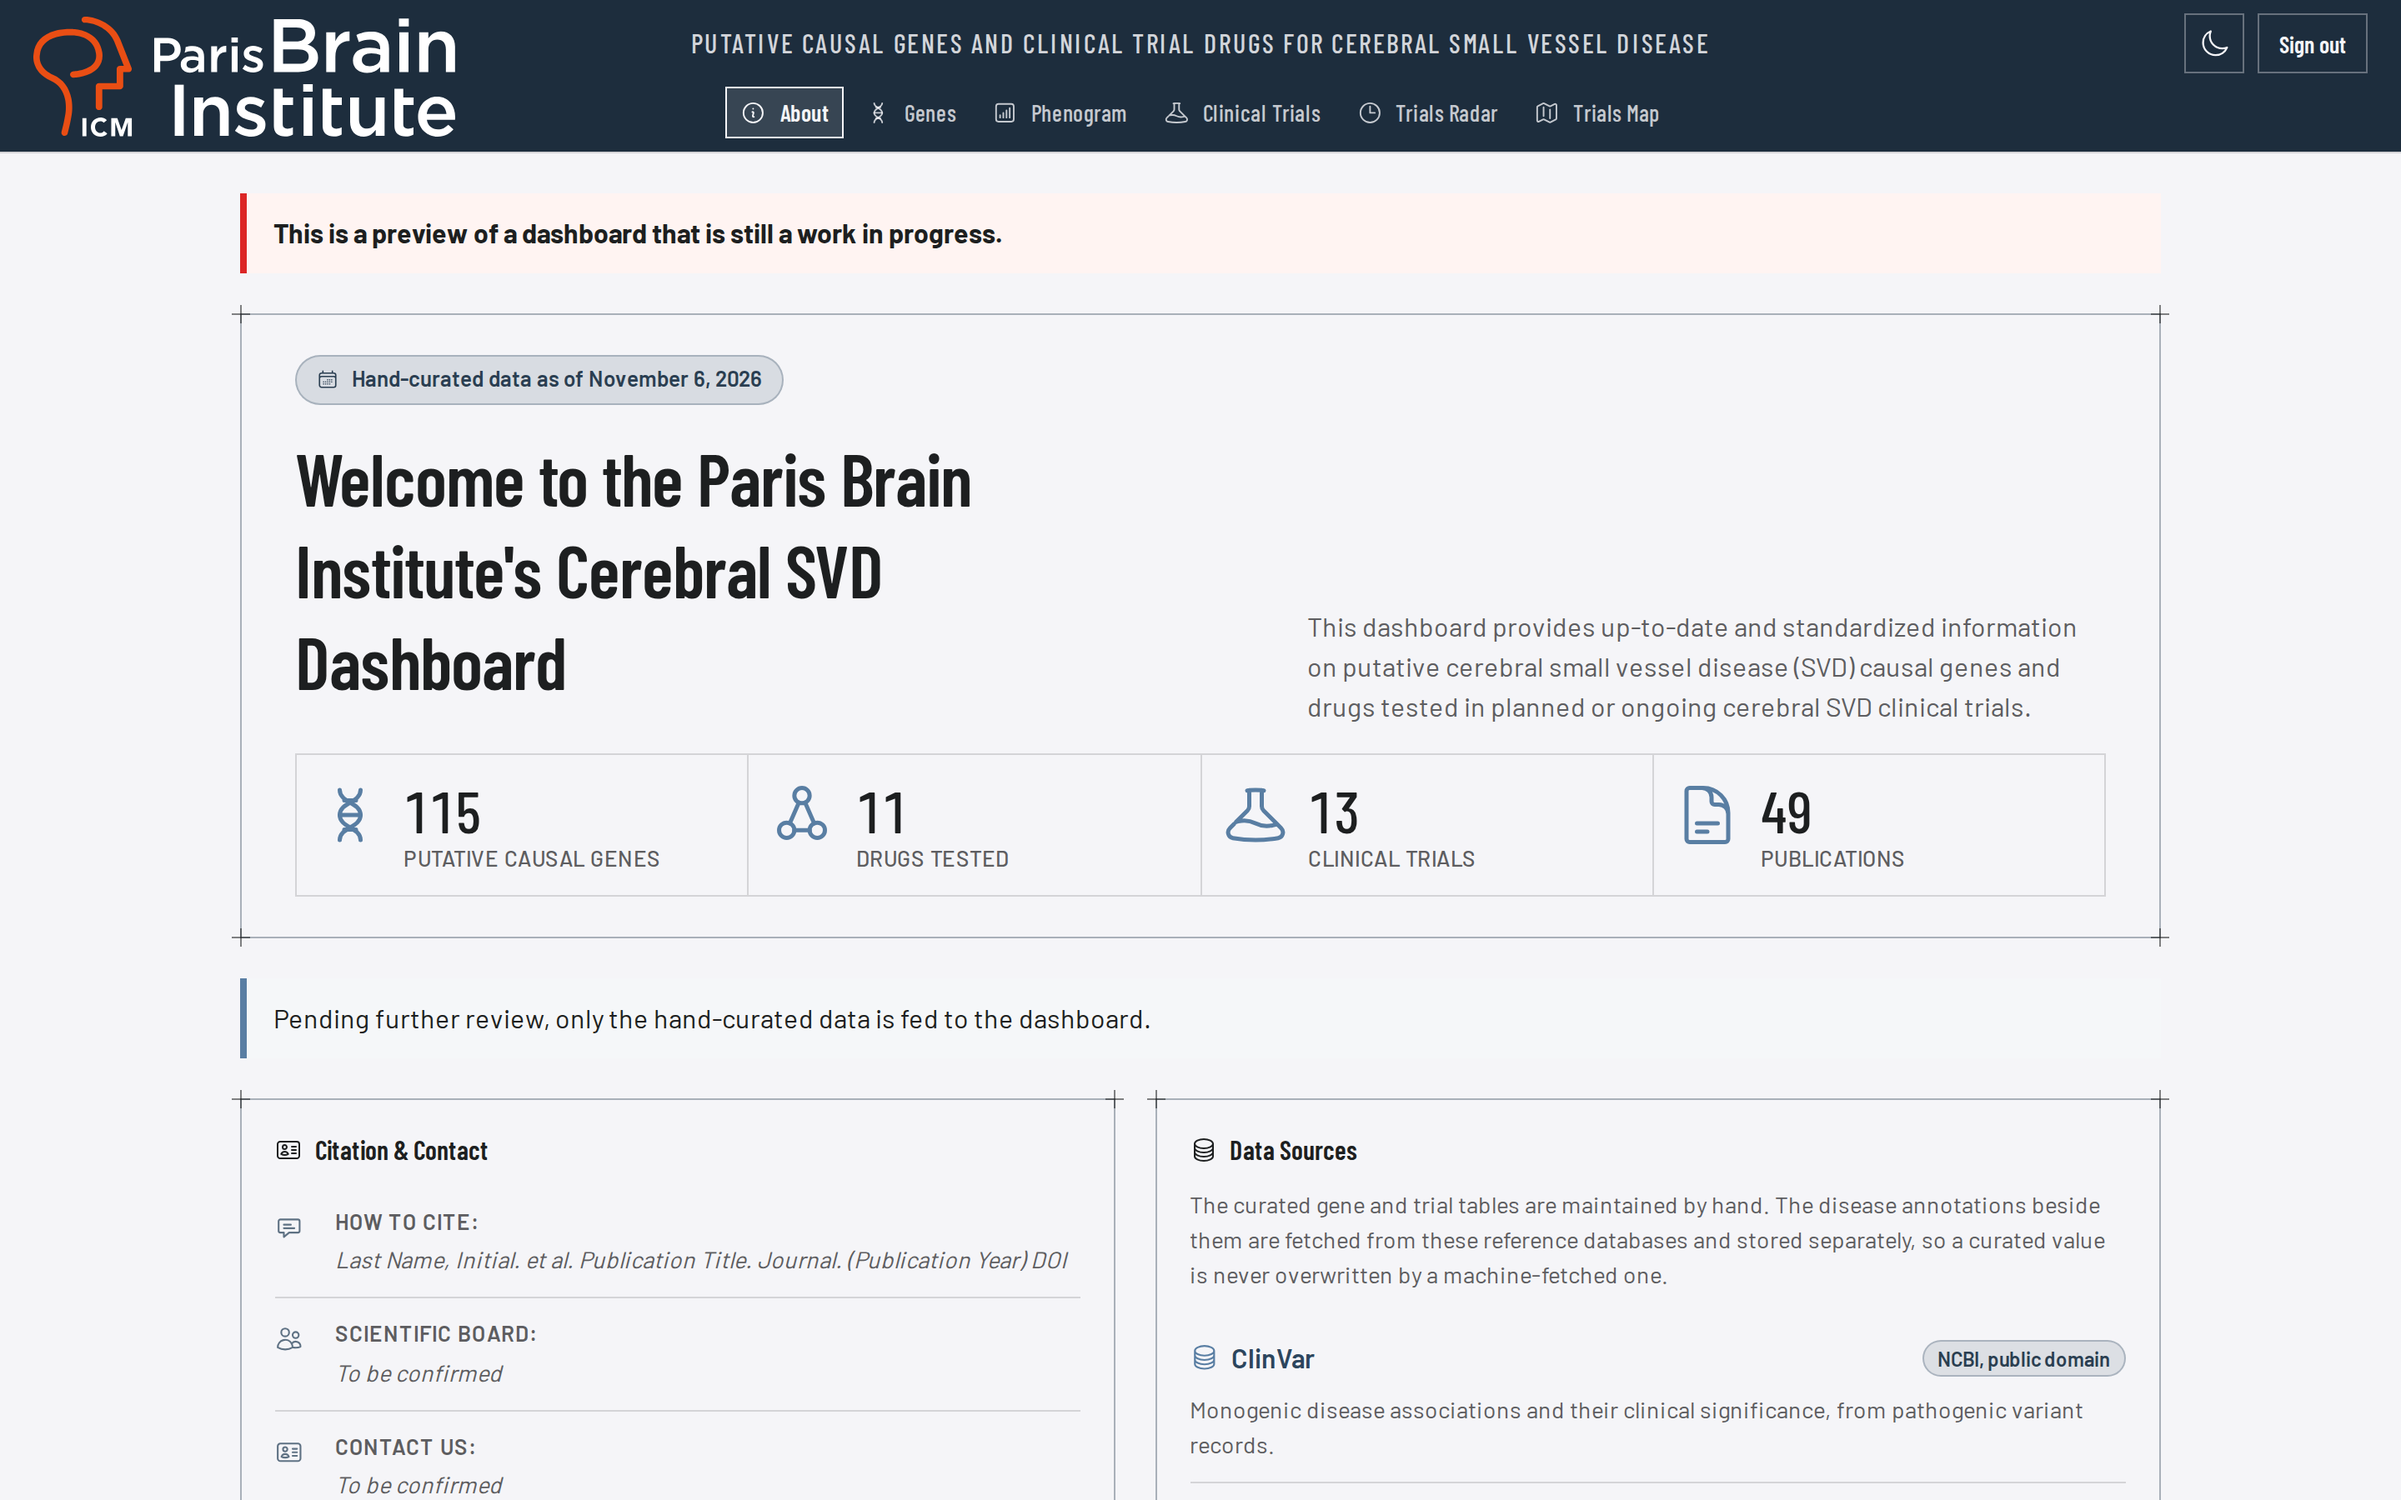
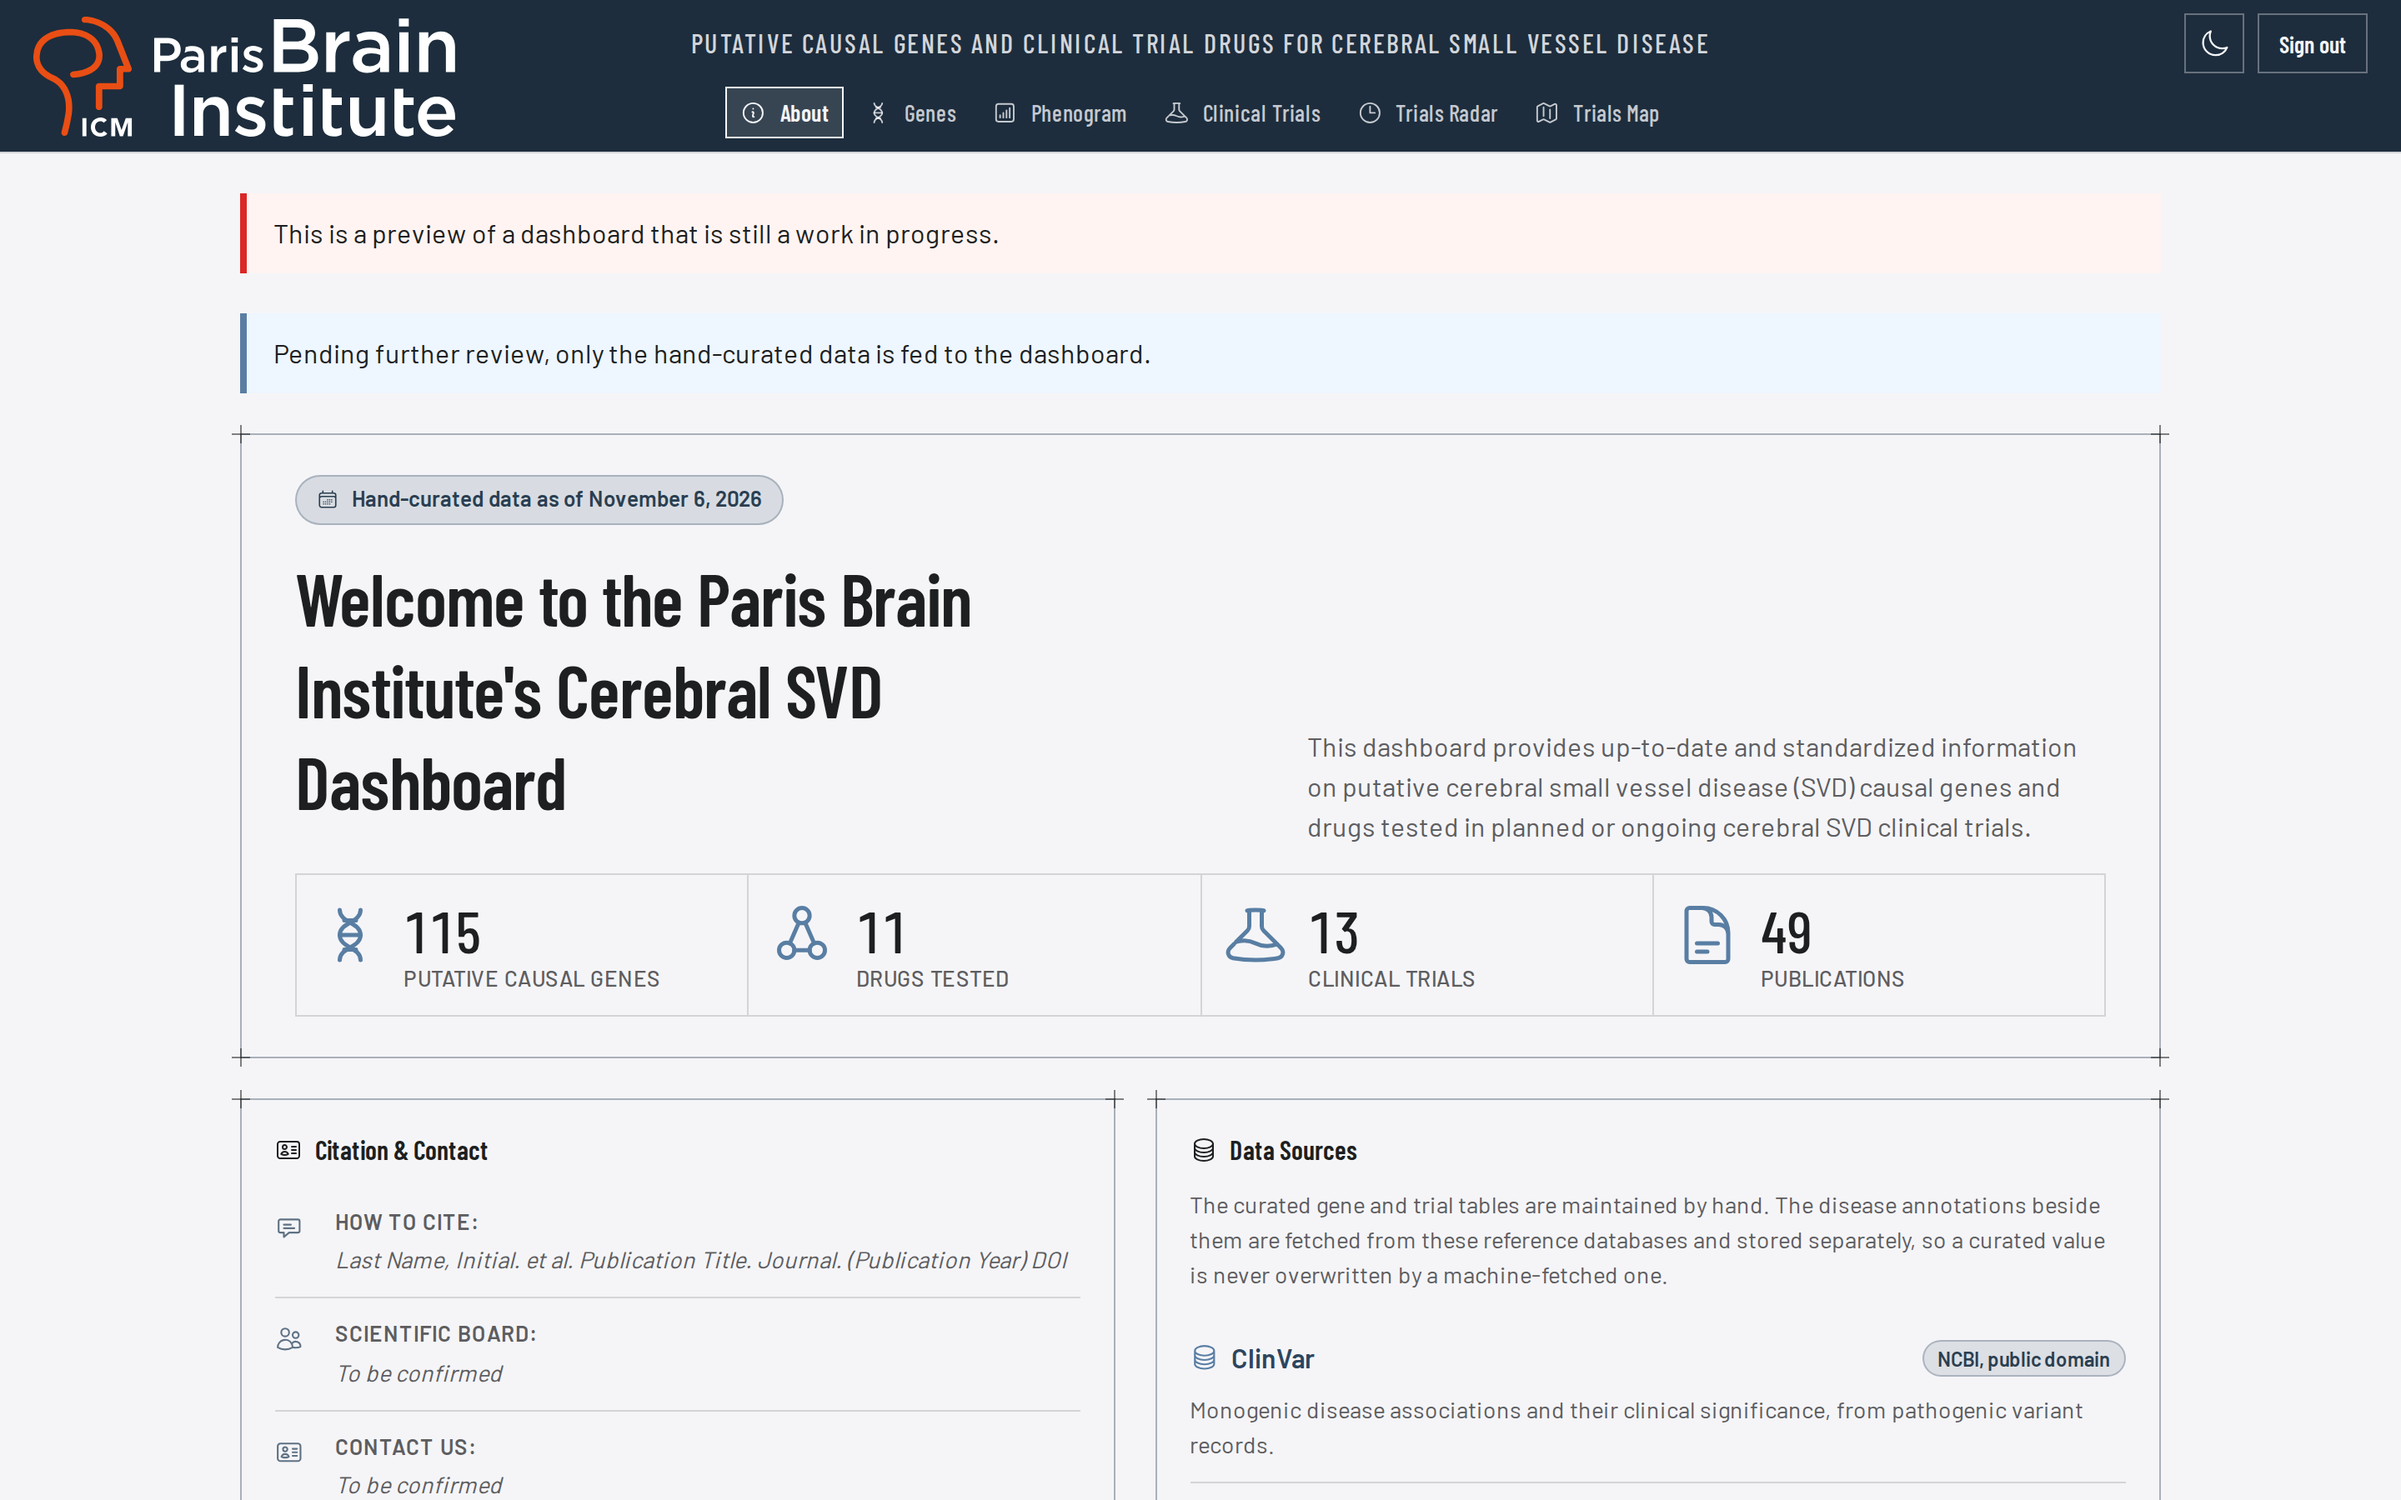
About: unbold the preview warning, put the gold-only notice under it, give it its wash
The neutral notice's 6% accent mix rounded to white on the light surface,
so it lost its background; a --svd-notice-neutral-wash token names the
pale steel in light mode and keeps the mix in dark. The notice now sits
in the page header directly under the preview warning, above the hero.
Recaptures the About screenshot.

Changed region(s): [[0.0938, 0.2178, 0.4688, 0.6844], [0.5, 0.4044, 0.875, 0.6844], [0.125, 0.1556, 0.4062, 0.1867]]

diff --git a/assets/app.css b/assets/app.css
@@ -148,6 +148,10 @@
   --svd-color-primary: var(--svd-steel-800);
   --svd-color-accent: var(--svd-steel-600);
   --svd-color-accent-text: var(--svd-steel-700);
+  /* The neutral notice's wash. The 6% mix every notice takes is visible on
+     the dark surface but rounds to white on the light one, so the light
+     theme names the pale steel outright. */
+  --svd-notice-neutral-wash: var(--svd-steel-100);
   --svd-color-ok: var(--svd-green-500);
   --svd-color-danger: var(--svd-red-600);
   --svd-color-danger-text: var(--svd-red-700);
@@ -530,6 +534,11 @@
     --svd-color-primary: var(--svd-steel-400);
     --svd-color-accent: var(--svd-steel-400);
     --svd-color-accent-text: var(--svd-steel-300);
+    --svd-notice-neutral-wash: color-mix(
+      in oklab,
+      var(--svd-steel-400) 6%,
+      var(--svd-steel-925)
+    );
     --svd-color-ok: var(--svd-green-400);
     --svd-color-danger: var(--svd-red-400);
     --svd-color-danger-text: var(--svd-red-300);
@@ -590,6 +599,11 @@
   --svd-color-primary: var(--svd-steel-400);
   --svd-color-accent: var(--svd-steel-400);
   --svd-color-accent-text: var(--svd-steel-300);
+  --svd-notice-neutral-wash: color-mix(
+    in oklab,
+    var(--svd-steel-400) 6%,
+    var(--svd-steel-925)
+  );
   --svd-color-ok: var(--svd-green-400);
   --svd-color-danger: var(--svd-red-400);
   --svd-color-danger-text: var(--svd-red-300);
@@ -2595,6 +2609,7 @@ svg {
    blocks override the accent, so the stripe follows the theme. */
 .notice-neutral {
   --svd-notice-color: var(--svd-color-accent);
+  background: var(--svd-notice-neutral-wash);
 }
 
 /* === ADAPT WIZARD === */

diff --git a/routes/index.tsx b/routes/index.tsx
@@ -270,10 +270,17 @@ export function AboutContent(
       header={
         <>
           <p class="notice notice-warning about-warning">
-            <strong>
-              This is a preview of a dashboard that is still a work in progress.
-            </strong>
+            This is a preview of a dashboard that is still a work in progress.
           </p>
+
+          {goldOnly && (
+            /* No run fed what the page shows, so neither account of one, nor
+              the refreshes, belongs on the page: the notice says so, under
+              the preview warning. */
+            <p class="notice notice-neutral about-gold-notice">
+              {GOLD_ONLY_NOTICE}
+            </p>
+          )}
 
           <div class="card about-hero">
             <div class="card-body">
@@ -329,15 +336,7 @@ export function AboutContent(
         </>
       }
     >
-      {goldOnly
-        ? (
-          /* No run fed what the page shows, so neither account of one, nor
-            the refreshes, belongs here: the notice stands in their place. */
-          <p class="notice notice-neutral about-gold-notice">
-            {GOLD_ONLY_NOTICE}
-          </p>
-        )
-        : <PipelineReports run={run} status={status} syncs={syncs} />}
+      {!goldOnly && <PipelineReports run={run} status={status} syncs={syncs} />}
 
       <div class="about-grid">
         <div class="card">

diff --git a/tests/gold_only_test.tsx b/tests/gold_only_test.tsx
@@ -8,6 +8,7 @@
  */
 
 import {
+  assert,
   assertEquals,
   assertNotMatch,
   assertStringIncludes,
@@ -63,6 +64,11 @@ Deno.test("gold-only About shows the notice and the curated date, and no run", (
   assertStringIncludes(html, GOLD_ONLY_NOTICE);
   // It informs, so it wears the neutral notice, not the warning's red.
   assertStringIncludes(html, 'class="notice notice-neutral about-gold-notice"');
+  // It sits directly under the preview warning, above the hero.
+  const warning = html.indexOf("about-warning");
+  const notice = html.indexOf("about-gold-notice");
+  assert(warning !== -1 && warning < notice, "the notice follows the warning");
+  assert(notice < html.indexOf("about-hero"), "the notice precedes the hero");
   assertStringIncludes(html, "Hand-curated data as of November 6, 2026");
   assertNotMatch(html, /Up to date as of/);
   assertNotMatch(html, /Last Pipeline Run/);

diff --git a/tests/styles_contract_test.ts b/tests/styles_contract_test.ts
@@ -1575,6 +1575,14 @@ Deno.test("the neutral notice takes the accent, in both themes", () => {
   // The gold-only note informs; in the danger red it read as an alarm.
   const neutral = css.match(/\.notice-neutral\s*\{([^}]*)\}/)?.[1] ?? "";
   assertMatch(neutral, /--svd-notice-color:\s*var\(--svd-color-accent\);/);
+  // The shared 6% wash of the light accent rounds to white on the light
+  // surface, so the neutral notice names a pale steel of its own.
+  assertMatch(neutral, /background:\s*var\(--svd-notice-neutral-wash\);/);
+  assert(
+    tokenValue("--svd-notice-neutral-wash", "light") !==
+      tokenValue("--svd-surface", "light"),
+    "light: the neutral wash is the surface",
+  );
   for (const theme of ["light", "dark"] as const) {
     const stripe = tokenValue("--svd-color-accent", theme);
     assert(
